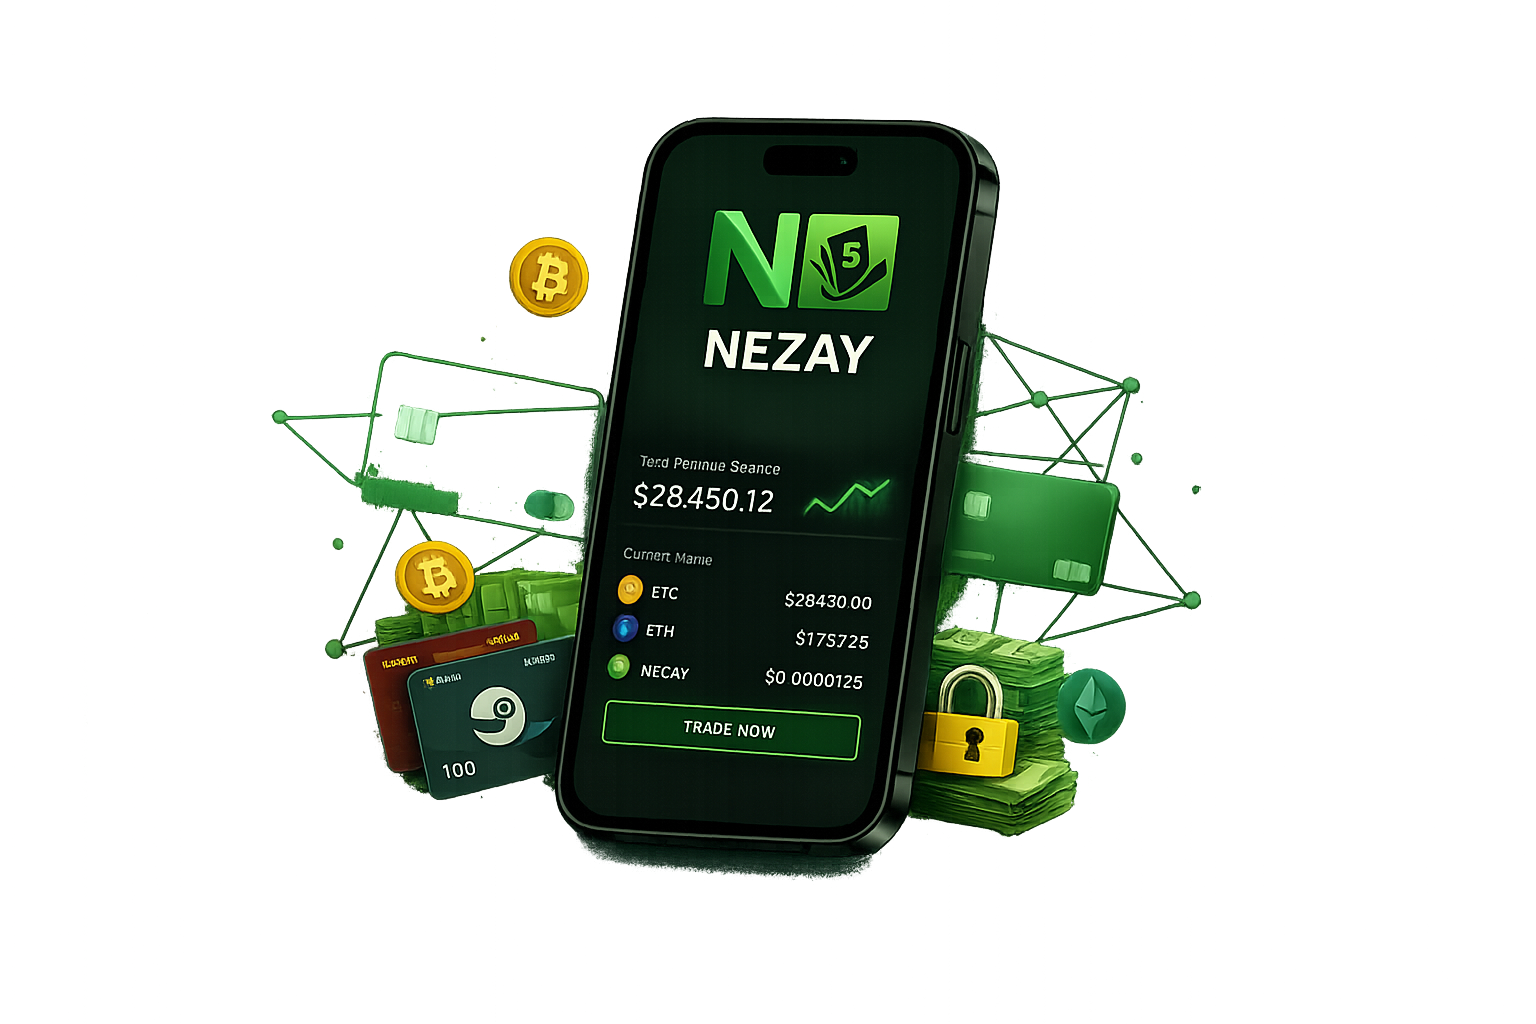
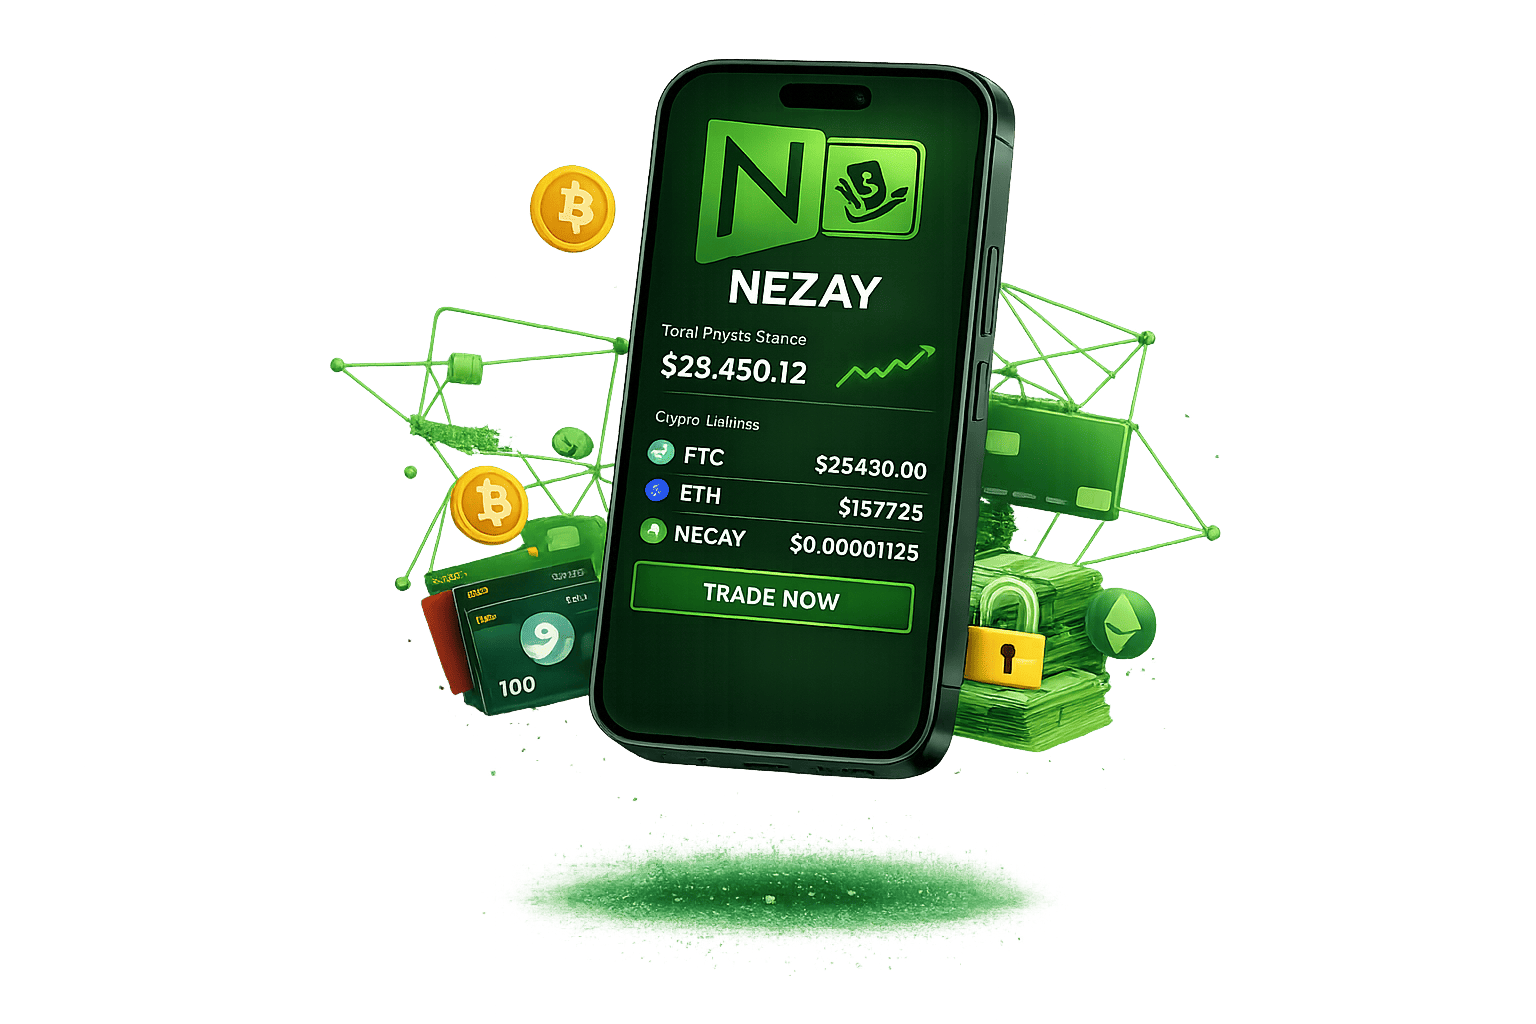
Updated home screen UI and fixed login bug

Changed region(s): [[0.1875, 0.0312, 0.8125, 0.9375]]

diff --git a/style.css b/style.css
@@ -699,8 +699,8 @@ section .text p {
         radial-gradient(ellipse 110% 90% at 92% 95%, rgba(110, 245, 150, 0.35) 0%, transparent 52%),
         linear-gradient(
             180deg,
-            rgba(3, 14, 9, 0.82) 0%,
-            rgba(4, 20, 13, 0.72) 18%,
+            rgba(2, 48, 8, 0.92) 0%,
+            rgba(4, 58, 10, 0.86) 18%,
             rgba(5, 26, 17, 0.58) 38%,
             rgba(5, 30, 20, 0.42) 55%,
             rgba(6, 34, 22, 0.28) 72%,
@@ -711,6 +711,7 @@ section .text p {
     background-repeat: no-repeat;
     background-position: center center;
     background-size: cover;
+    background-attachment: fixed;
     min-height: auto;
     position: relative;
     overflow: hidden;
@@ -1076,8 +1077,8 @@ section .text p {
 }
 
 .nezay-hero .nezay-logo .logo-icon {
-    width: 54px;
-    height: 54px;
+    width: 66px;
+    height: 66px;
 }
 
 .nezay-hero .nezay-logo .logo-text {
@@ -1112,6 +1113,66 @@ section .text p {
     display: grid;
     grid-template-columns: auto 1fr auto;
     align-items: center;
+    position: sticky;
+    top: 0;
+    z-index: 30;
+    background: linear-gradient(135deg, rgba(8, 22, 14, 0.96) 0%, rgba(14, 42, 28, 0.94) 100%);
+    border: 1px solid rgba(106, 232, 150, 0.34);
+    border-radius: 14px;
+    padding: 10px 16px;
+    backdrop-filter: blur(6px);
+    -webkit-backdrop-filter: blur(6px);
+    box-shadow:
+        0 10px 26px rgba(0, 0, 0, 0.34),
+        inset 0 1px 0 rgba(190, 255, 214, 0.16);
+    overflow: hidden;
+}
+
+.nezay-hero .nezay-header::before,
+.nezay-hero .nezay-header::after {
+    content: "";
+    position: absolute;
+    border-radius: 50%;
+    pointer-events: none;
+    border: 1px solid rgba(190, 255, 214, 0.26);
+    background: radial-gradient(
+        circle at 30% 30%,
+        rgba(255, 255, 255, 0.24) 0%,
+        rgba(170, 255, 205, 0.12) 36%,
+        transparent 72%
+    );
+    box-shadow:
+        inset 2px 2px 8px rgba(255, 255, 255, 0.12),
+        0 0 14px rgba(106, 232, 150, 0.14);
+    opacity: 0.6;
+}
+
+.nezay-hero .nezay-header::before {
+    width: 36px;
+    height: 36px;
+    left: 34%;
+    top: 50%;
+    transform: translateY(-50%);
+    animation: header-bubble-float 9s ease-in-out infinite;
+}
+
+.nezay-hero .nezay-header::after {
+    width: 22px;
+    height: 22px;
+    right: 34%;
+    top: 28%;
+    animation: header-bubble-float 7s ease-in-out infinite reverse;
+    opacity: 0.5;
+}
+
+@keyframes header-bubble-float {
+    0%,
+    100% {
+        transform: translateY(-50%) translateX(0);
+    }
+    50% {
+        transform: translateY(-58%) translateX(3px);
+    }
 }
 
 .nezay-hero .nezay-nav-center {
@@ -1367,7 +1428,7 @@ section .text p {
 
 .hero-phone img {
     width: 100%;
-    max-width: min(560px, 100%);
+    max-width: min(660px, 100%);
     height: auto;
     object-fit: contain;
     filter: drop-shadow(0 24px 48px rgba(0, 0, 0, 0.4));
@@ -1533,7 +1594,7 @@ section .text p {
     }
 
     .hero-phone img {
-        max-width: min(480px, 92vw);
+        max-width: min(560px, 94vw);
     }
     .hero-floating {
         font-size: 1.5rem;
@@ -2228,14 +2289,20 @@ section .text p {
     display: flex;
     align-items: center;
     justify-content: center;
+    padding: 12px;
+    border-radius: 22px;
+    background: linear-gradient(160deg, rgba(7, 18, 13, 0.82) 0%, rgba(10, 28, 20, 0.66) 100%);
+    border: 1px solid rgba(142, 255, 204, 0.18);
+    box-shadow: 0 18px 36px rgba(2, 10, 7, 0.35);
 }
 
 .ad-image-wrap img {
     width: 100%;
-    max-width: 100%;
+    max-width: 520px;
     height: auto;
     display: block;
-    filter: contrast(1.08) brightness(1.05);
+    border-radius: 16px;
+    object-fit: contain;
 }
 
 .ad-text-wrap {
@@ -2672,8 +2739,8 @@ section .text p {
 }
 
 .footer-logo .logo-icon {
-    width: 56px;
-    height: 56px;
+    width: 100px;
+    height: 100px;
     border-radius: 0;
     object-fit: contain;
 }

diff --git a/index.html b/index.html
@@ -197,7 +197,7 @@
                             <ul class="hero-highlights" aria-label="Key services">
                                 <li>Instant Transfers</li>
                                 <li>Easy Bill Payments</li>
-                                <li>Gift Card Trading &amp; Crypto Exchange</li>
+                                <li>Gift Card Trading &amp; Naira to Crypto</li>
                             </ul>
                             <div class="hero-buttons">
                                 <button type="button" class="hero-btn-get-started" aria-label="Get started with Nezay Exchange">Get Started</button>
@@ -277,7 +277,7 @@
                             <li>
                                 <span class="about-us-feature-icon"><i class="fa-brands fa-bitcoin"></i></span>
                                 <div>
-                                    <h3>Digital Asset Exchange</h3>
+                                    <h3>Swap Digital Assets</h3>
                                     <p>Convert Naira to cryptocurrency and manage digital assets easily with NEZAY.</p>
                                 </div>
                             </li>
@@ -361,7 +361,7 @@
                 <div class="container">
                     <div class="ad-inner">
                         <div class="ad-image-wrap">
-                            <img src="images/Security.png" alt="Nezay app with shield, padlocks, and secure finances" loading="lazy">
+                            <img src="images/ad-hand-phone-payments.svg" alt="Black hand holding a mobile phone with bill payments and crypto to fiat swap interface" loading="lazy">
                         </div>
                         <div class="ad-text-wrap">
                             <h2>Your Security, Our Priority</h2>
@@ -387,7 +387,7 @@
                             <i class="fa-solid fa-chevron-down faq-icon" aria-hidden="true"></i>
                         </button>
                         <div class="faq-answer" id="faq-answer-1" role="region" aria-labelledby="faq-question-1" hidden>
-                            <p>NEZAY is a modern fintech platform that allows you to exchange digital assets, pay bills instantly, and redeem gift cards for cash—all in one secure app.</p>
+                            <p>NEZAY is a modern fintech platform that allows you to swap digital assets to fiat, pay bills instantly, and redeem gift cards for cash—all in one secure app.</p>
                         </div>
                     </div>
                     <div class="faq-item">
@@ -423,7 +423,7 @@
                             <i class="fa-solid fa-chevron-down faq-icon" aria-hidden="true"></i>
                         </button>
                         <div class="faq-answer" id="faq-answer-5" role="region" aria-labelledby="faq-question-5" hidden>
-                            <p>Simply fund your NEZAY wallet with Naira, choose the cryptocurrency you want, and complete the exchange instantly. Your digital assets are stored securely in your NEZAY account.</p>
+                            <p>Simply fund your NEZAY wallet with Naira, choose the cryptocurrency you want, and complete the swap instantly. Your digital assets are stored securely in your NEZAY account.</p>
                         </div>
                     </div>
                     <div class="faq-item">
@@ -524,7 +524,7 @@
             <div class="container">
                 <a href="#" class="nezay-logo footer-logo">
                     <img src="images/Nezay Exchange Logo.png" alt="Nezay" class="logo-icon">
-                    <span class="logo-text">Nezay</span>
+                    <span class="logo-text"></span>
                 </a>
                 <div class="download">
                     <div class="ios">
